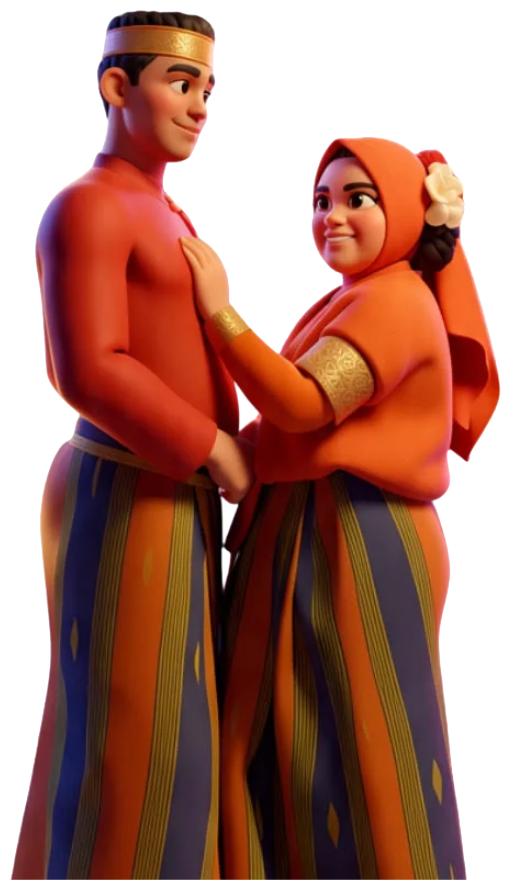
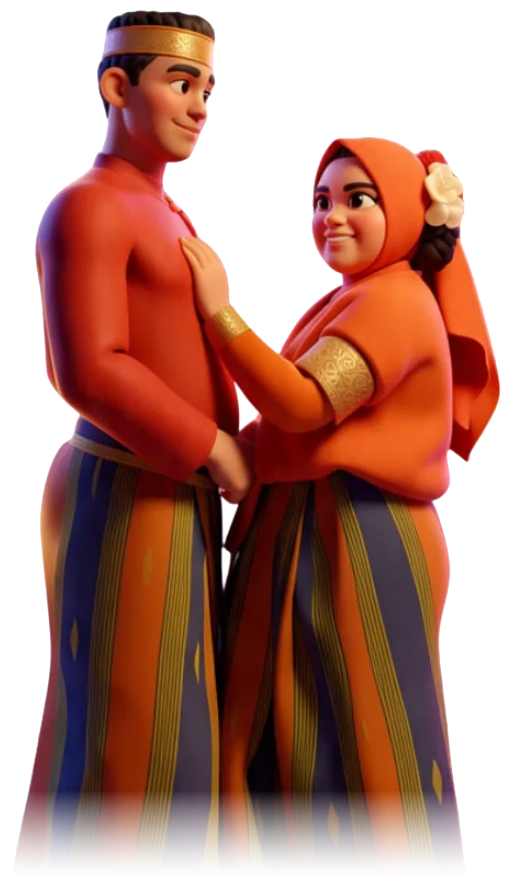
Feather bottom PNG alpha dan kunci penempatan foto agar selalu terbenam di balik kartu tamu tanpa celah

Changed region(s): [[0.0, 0.8898, 0.9118, 1.0]]

diff --git a/index.html b/index.html
@@ -13,7 +13,7 @@
   <link rel="preconnect" href="https://fonts.gstatic.com" crossorigin>
   <link href="https://fonts.googleapis.com/css2?family=Alex+Brush&family=Cinzel:wght@400;600;700;900&family=Cormorant+Garamond:ital,wght@0,300;0,400;0,600;0,700;1,400&family=Montserrat:wght@300;400;500;600&family=Playfair+Display:ital,wght@0,400;0,600;0,700;1,400&display=swap" rel="stylesheet">
   
-  <link rel="stylesheet" href="style.css?v=20261125_2355">
+  <link rel="stylesheet" href="style.css?v=20261125_2359">
 </head>
 <body>
 
@@ -75,7 +75,7 @@
 
       <!-- Couple Illustration on Cover (Foto 1) -->
       <div class="cover-couple-container" id="coverCoupleContainer">
-        <img src="assets/foto1.png?v=20261125_2355" alt="Foto Pengantin Niar & Reski" class="cover-couple-img" id="coverCoupleImg" loading="eager" fetchpriority="high" onerror="if(this.src.indexOf('assets/')!==-1){this.src='Foto1.png';}">
+        <img src="assets/foto1.png?v=20261125_2359" alt="Foto Pengantin Niar & Reski" class="cover-couple-img" id="coverCoupleImg" loading="eager" fetchpriority="high" onerror="if(this.src.indexOf('assets/')!==-1){this.src='Foto1.png';}">
       </div>
 
       <!-- Guest Card & Open Invitation Button (Reveals after zoom-out) -->
@@ -357,6 +357,6 @@
   <audio id="bgMusicAudio" src="music.mp3" preload="auto" loop autoplay playsinline webkit-playsinline></audio>
 
   <!-- Main Cinematic Orchestrator -->
-  <script src="script.js?v=20261125_2355"></script>
+  <script src="script.js?v=20261125_2359"></script>
 </body>
 </html>

diff --git a/style.css b/style.css
@@ -443,10 +443,10 @@ body {
 .cover-couple-container {
   position: absolute;
   left: 50%;
-  top: clamp(230px, 29vh, 265px);
-  bottom: clamp(110px, 15vh, 140px);
+  bottom: clamp(115px, 15vh, 145px);
   transform: translateX(-50%) translateY(24px) scale(0.96);
-  height: auto;
+  height: clamp(310px, 42vh, 410px);
+  max-height: calc(100vh - 250px);
   width: auto;
   max-width: 90vw;
   z-index: 14;
@@ -454,8 +454,6 @@ body {
   filter: blur(8px) drop-shadow(0 10px 24px rgba(35, 20, 15, 0.15));
   opacity: 0;
   visibility: hidden;
-  -webkit-mask-image: linear-gradient(to bottom, #000 82%, transparent 98%);
-  mask-image: linear-gradient(to bottom, #000 82%, transparent 98%);
   transition: opacity 1.3s cubic-bezier(0.16, 1, 0.3, 1),
               transform 1.3s cubic-bezier(0.16, 1, 0.3, 1),
               filter 1.2s cubic-bezier(0.16, 1, 0.3, 1);
@@ -475,7 +473,7 @@ body {
   width: auto;
   max-width: 100%;
   object-fit: contain;
-  object-position: top center;
+  object-position: bottom center;
   display: block;
 }
 
